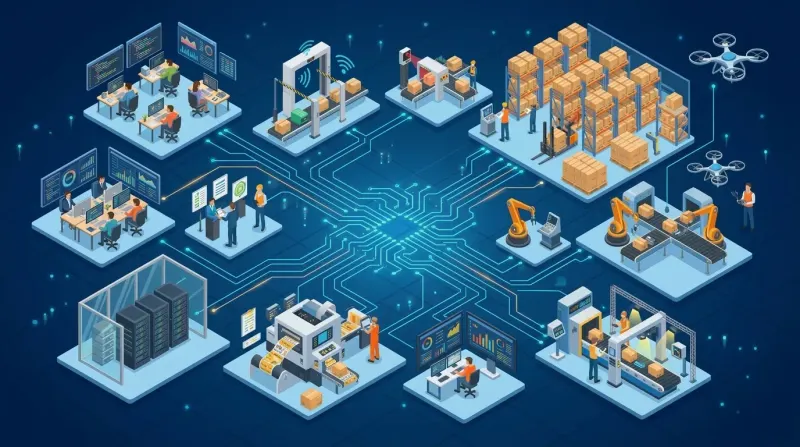
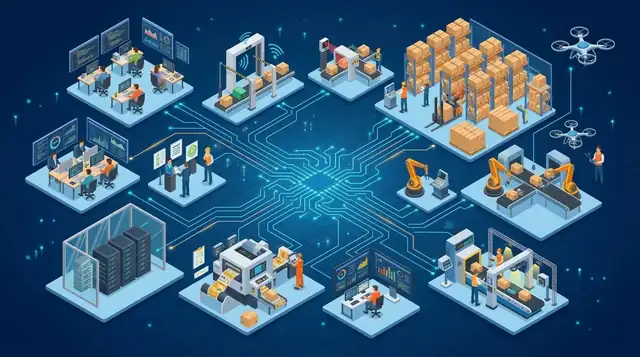
perf: preload LCP factory image, shrink mobile AVIF to 12KB, add 13KB station thumbs, and defer analytics to idle

diff --git a/index.html b/index.html
@@ -13,27 +13,41 @@
     <meta name="robots" content="index, follow, max-image-preview:large, max-snippet:-1, max-video-preview:-1" />
     <link rel="canonical" href="https://atplgroup.com/" />
 
-    <!-- Google Analytics / Measurement Tracking Tool (Resolves SEOptimer Analytics audit) -->
-    <script async src="https://www.googletagmanager.com/gtag/js?id=G-ATPLINDIA9"></script>
+    <!-- Google Analytics & Meta / Facebook Pixel (Deferred on Idle to eliminate Total Blocking Time / TBT) -->
     <script>
       window.dataLayer = window.dataLayer || [];
       function gtag(){dataLayer.push(arguments);}
       gtag('js', new Date());
       gtag('config', 'G-ATPLINDIA9', { anonymize_ip: true });
-    </script>
 
-    <!-- Meta / Facebook Pixel Tracking Code (Resolves SEOptimer Facebook Pixel audit) -->
-    <script>
-      !function(f,b,e,v,n,t,s)
-      {if(f.fbq)return;n=f.fbq=function(){n.callMethod?
-      n.callMethod.apply(n,arguments):n.queue.push(arguments)};
-      if(!f._fbq)f._fbq=n;n.push=n;n.loaded=!0;n.version='2.0';
-      n.queue=[];t=b.createElement(e);t.async=!0;
-      t.src=v;s=b.getElementsByTagName(e)[0];
-      s.parentNode.insertBefore(t,s)}(window, document,'script',
-      'https://connect.facebook.net/en_US/fbevents.js');
-      fbq('init', '103740024727332');
-      fbq('track', 'PageView');
+      function _initThirdPartyTracking() {
+        if (window._tpTrackingInit) return;
+        window._tpTrackingInit = true;
+
+        // 1. Google Analytics
+        var ga = document.createElement('script');
+        ga.src = 'https://www.googletagmanager.com/gtag/js?id=G-ATPLINDIA9';
+        ga.async = true;
+        document.head.appendChild(ga);
+
+        // 2. Meta / Facebook Pixel
+        !function(f,b,e,v,n,t,s)
+        {if(f.fbq)return;n=f.fbq=function(){n.callMethod?
+        n.callMethod.apply(n,arguments):n.queue.push(arguments)};
+        if(!f._fbq)f._fbq=n;n.push=n;n.loaded=!0;n.version='2.0';
+        n.queue=[];t=b.createElement(e);t.async=!0;
+        t.src=v;s=b.getElementsByTagName(e)[0];
+        s.parentNode.insertBefore(t,s)}(window, document,'script',
+        'https://connect.facebook.net/en_US/fbevents.js');
+        fbq('init', '103740024727332');
+        fbq('track', 'PageView');
+      }
+
+      if ('requestIdleCallback' in window) {
+        requestIdleCallback(function() { setTimeout(_initThirdPartyTracking, 800); });
+      } else {
+        window.addEventListener('load', function() { setTimeout(_initThirdPartyTracking, 1000); });
+      }
     </script>
 
     <!-- GEO / Local SEO Meta Tags -->
@@ -66,6 +80,8 @@
 
     <!-- Preload Critical Assets (LCP & Zero Layout Shift) -->
     <link rel="preload" as="image" href="/atpl_logo.webp" type="image/webp" />
+    <link rel="preload" as="image" href="/assets/images/atpl_isometric_factory_mobile.avif" type="image/avif" media="(max-width: 768px)" fetchpriority="high" />
+    <link rel="preload" as="image" href="/assets/images/atpl_isometric_factory.avif" type="image/avif" media="(min-width: 769px)" fetchpriority="high" />
     <!-- Google Fonts Preconnect & Async Non-Blocking Load -->
     <link rel="preconnect" href="https://fonts.googleapis.com" />
     <link rel="preconnect" href="https://fonts.gstatic.com" crossorigin />

diff --git a/src/components/common/FactoryBlueprintMap.jsx b/src/components/common/FactoryBlueprintMap.jsx
@@ -1216,13 +1216,15 @@ export const FactoryBlueprintMap = () => {
               flexShrink: 0
             }}>
               <img
-                src={currentNode.image}
+                src={currentNode.image ? currentNode.image.replace('.webp', '_thumb.webp') : ''}
                 alt={currentNode.name}
                 width="320"
                 height="82"
                 loading="lazy"
                 onError={(e) => {
-                  if (e.currentTarget.src.endsWith('.webp')) {
+                  if (e.currentTarget.src.includes('_thumb.webp')) {
+                    e.currentTarget.src = e.currentTarget.src.replace('_thumb.webp', '.webp');
+                  } else if (e.currentTarget.src.endsWith('.webp')) {
                     e.currentTarget.src = e.currentTarget.src.replace('.webp', '.jpg');
                   }
                 }}
